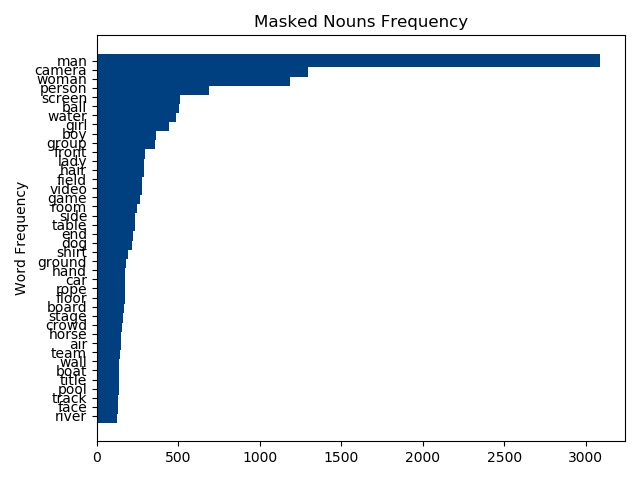
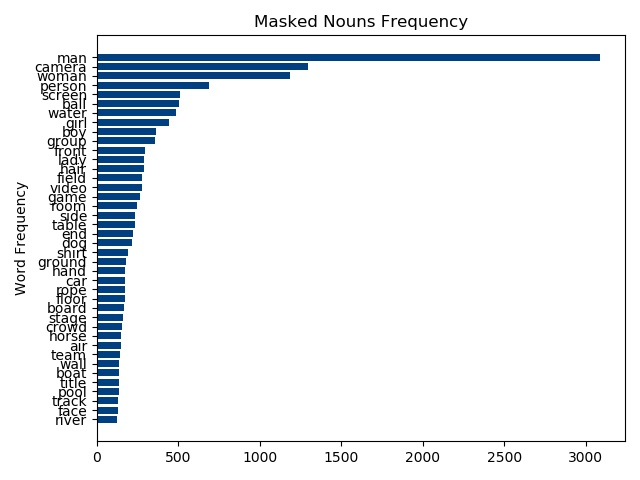
f

Changed region(s): [[0.0312, 0.0938, 0.9375, 0.9062], [0.0938, 0.5, 0.125, 0.5312]]

diff --git a/evaluation/draw.py b/evaluation/draw.py
@@ -10,7 +10,7 @@ num = 40
 x = [s[0] for s in sorted_words[:num]]
 y = [s[1] for s in sorted_words[:num]]
 
-x_pos = [i for i, _ in enumerate(x)]
+x_pos = [i*2 for i, _ in enumerate(x)]
 x_pos.reverse()
 
 plt.barh(x_pos, y, color='#004080', height=1.5)
